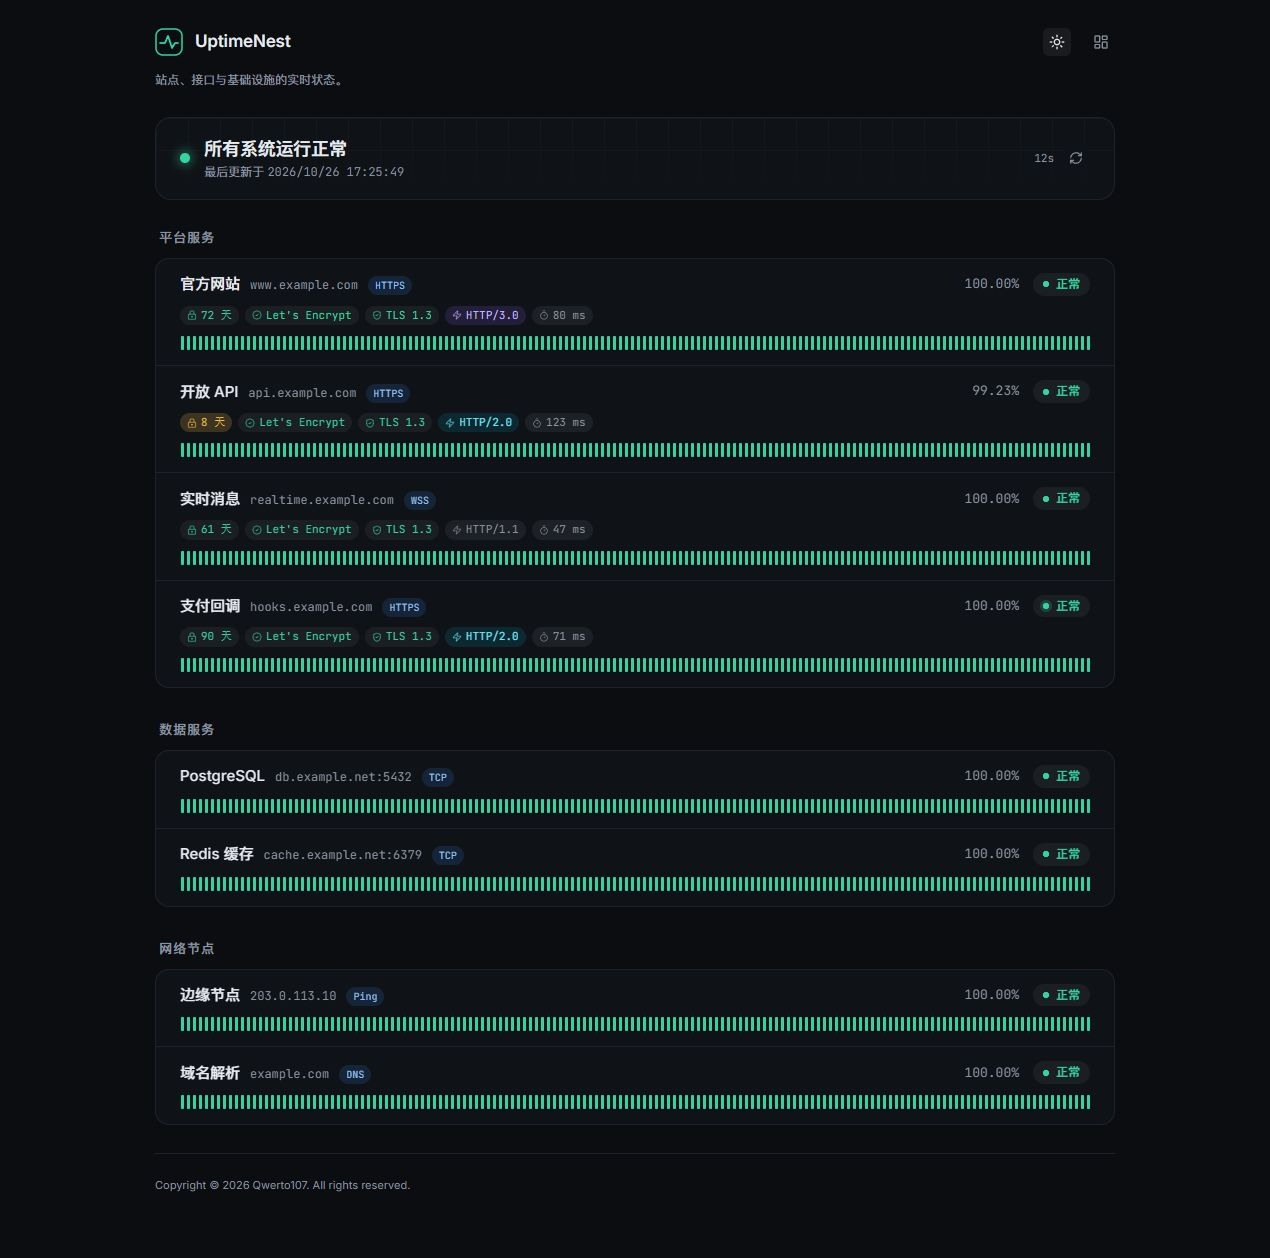
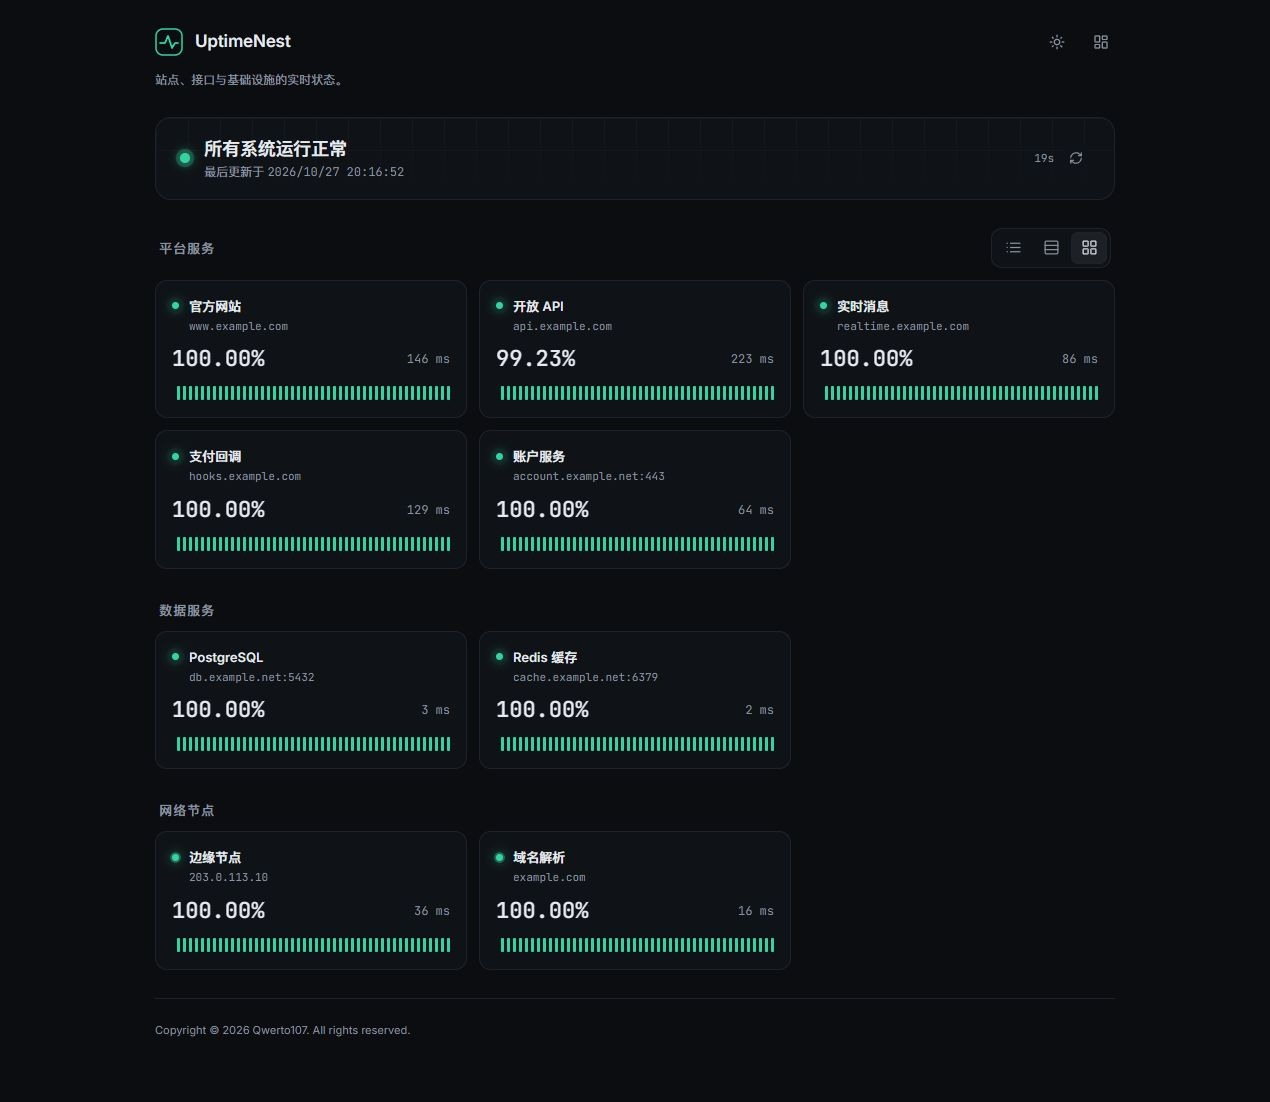
docs: refresh screenshots and move gallery out of homepage

diff --git a/docs/screenshots.md b/docs/screenshots.md
@@ -1,0 +1,59 @@
+# 界面截图
+
+[项目首页](../README.md) · [文档中心](README.md) · [使用指南](usage.md)
+
+截图来自独立演示环境，域名、地址和统计仅作展示，不包含真实凭据。配置说明见 [使用指南](usage.md)，版本变化见 [更新记录](changelog.md)。
+
+[状态页](#状态页) · [监控管理与详情](#监控管理与详情) · [协议配置](#协议配置) · [分组与状态面板](#分组与状态面板) · [系统设置](#系统设置)
+
+## 状态页
+
+详细行展示服务分组、近期心跳、可用率和连接信息。
+
+![浅色状态页的详细行视图](assets/status-light.jpg)
+
+卡片视图突出可用率和响应时间，紧凑行适合在手机上查看多项服务。
+
+<table>
+  <tr><th width="75%">深色卡片视图</th><th width="25%">手机紧凑行视图</th></tr>
+  <tr>
+    <td valign="top"><img src="assets/status-dark.jpg" alt="UptimeNest 深色卡片视图"></td>
+    <td valign="top"><img src="assets/status-mobile.jpg" alt="UptimeNest 手机紧凑行视图"></td>
+  </tr>
+</table>
+
+## 监控管理与详情
+
+监控列表按分组展示运行状态，支持编辑、复制、启停和查看详情。
+
+![监控管理：分组、子树状态和单项操作](assets/monitors.jpg)
+
+详情页展示可用率、响应时间和连接信息。延迟图表支持七档时间范围，并标记故障时段。
+
+![监控详情：可用率、响应时间和延迟图表](assets/monitor-detail.jpg)
+
+## 协议配置
+
+HTTP 选项支持协议模式、指定连接 IP、重定向次数和有效状态码。
+
+![HTTP 配置选项](assets/http-options.jpg)
+
+WebSocket 支持握手或 Ping/Pong 检测，可设置 Origin、子协议、连接 IP 和请求头。已保存的敏感配置留空保留，也可显式清除。
+
+![WebSocket 配置与敏感字段保留](assets/websocket-options.jpg)
+
+## 分组与状态面板
+
+后台分组支持父子层级，可在监控列表中编辑名称和父级。
+
+![监控列表中的分组编辑](assets/groups.jpg)
+
+状态面板使用独立展示分组，支持调整监控顺序和跨组移动。
+
+![状态面板的展示分组与监控排序](assets/panels.jpg)
+
+## 系统设置
+
+系统设置包含语言、主题、默认视图、TLS 与证书提醒、历史保留和可信代理。
+
+![系统设置](assets/settings.jpg)

diff --git a/README.md b/README.md
@@ -20,40 +20,11 @@
 
 状态页支持紧凑行、详细行和卡片，展示近期心跳、可用率与连接信息。后台支持时间范围延迟图表，兼容桌面与手机，提供浅色和深色主题。
 
-![UptimeNest：状态页、响应延迟图表与移动端展示](docs/assets/product-showcase.png)
+![UptimeNest 真实界面：状态页、响应延迟图表与手机视图](docs/assets/product-showcase-real.png)
 
-*UptimeNest 产品展示图，根据独立演示界面生成。实际布局与配置以下方截图为准。*
+*由独立演示环境的真实截图排版合成，界面内容未经重绘。*
 
-<details>
-<summary><strong>查看实际截图：状态页、监控详情、协议配置、分组与系统设置</strong></summary>
-
-![UptimeNest 浅色状态页：服务分组、近期心跳与连接信息](docs/assets/status-light.jpg)
-
-<table>
-  <tr><th width="75%">深色状态页</th><th width="25%">移动端状态页</th></tr>
-  <tr>
-    <td valign="top"><img src="docs/assets/status-dark.jpg" alt="UptimeNest 深色状态页"></td>
-    <td valign="top"><img src="docs/assets/status-mobile.jpg" alt="UptimeNest 移动端状态页"></td>
-  </tr>
-</table>
-
-![监控管理：监控与分组统一管理、子树状态与单项操作](docs/assets/monitors.jpg)
-
-![监控详情：可用率、响应时间与七档时间范围的延迟图表](docs/assets/monitor-detail.jpg)
-
-![HTTP 配置：协议模式、指定连接 IP 与成功状态码](docs/assets/http-options.jpg)
-
-![WebSocket 配置：握手与 Ping/Pong、Origin、子协议和指定连接 IP](docs/assets/websocket-options.jpg)
-
-![监控列表内编辑分组名称和父级](docs/assets/groups.jpg)
-
-![状态面板：独立展示分组、监控顺序与跨组移动](docs/assets/panels.jpg)
-
-![系统设置：语言、主题、TLS 握手提醒阈值、历史保留与可信代理](docs/assets/settings.jpg)
-
-截图展示基础界面，使用独立演示数据，域名、地址和统计仅作展示，不包含真实凭据。v0.6.0 新增功能及实际布局以 [使用指南](docs/usage.md) 和对应 [更新记录](docs/changelog.md) 为准。
-
-</details>
+[查看实际界面截图](docs/screenshots.md)：状态页、监控管理、协议配置、分组、面板和系统设置。
 
 ## 功能
 

diff --git a/docs/README.md b/docs/README.md
@@ -6,6 +6,7 @@
 
 | 要做的事 | 文档 |
 | --- | --- |
+| 查看状态页和管理后台的实际界面 | [界面截图](screenshots.md) |
 | 创建监控、检查连接信息和历史记录 | [使用指南](usage.md#监控管理) |
 | 配置 HTTP 协议、指定 IP 或 WebSocket 检测 | [HTTP 配置](usage.md#http-请求与验证) · [WebSocket 检测](usage.md#websocket-检测) |
 | 配置 gRPC 健康检查 | [gRPC 检测](usage.md#grpc-检测) |
@@ -41,4 +42,4 @@
 | 发行程序 | <http://127.0.0.1:8090> | 解压后的程序目录 |
 | 本地前端开发 | <http://127.0.0.1:5173> | 源码仓库，前后端分别启动 |
 
-容器和发行程序均包含前端。首次访问 `/admin` 时，填写启动日志中的 `setup_token` 并设置密码；访客面板路径为 `/status/<面板路径>`。平台以对应 Release 附件为准，界面预览见 [项目首页](../README.md#界面一览)。
+容器和发行程序均包含前端。首次访问 `/admin` 时，填写启动日志中的 `setup_token` 并设置密码；访客面板路径为 `/status/<面板路径>`。平台以对应 Release 附件为准，实际界面见 [界面截图](screenshots.md)。

diff --git a/docs/changelog.md b/docs/changelog.md
@@ -5,6 +5,7 @@
 ## 未发布
 
 - 后台左下角版本号改为读取前端版本配置，与控制台保持一致，避免发布后仍显示固定的旧版本文字。
+- 更新界面截图并集中到独立文档。项目首页使用真实截图合成主图，并提供截图文档入口。
 
 ## v0.6.1 · 2026-10-27
 
